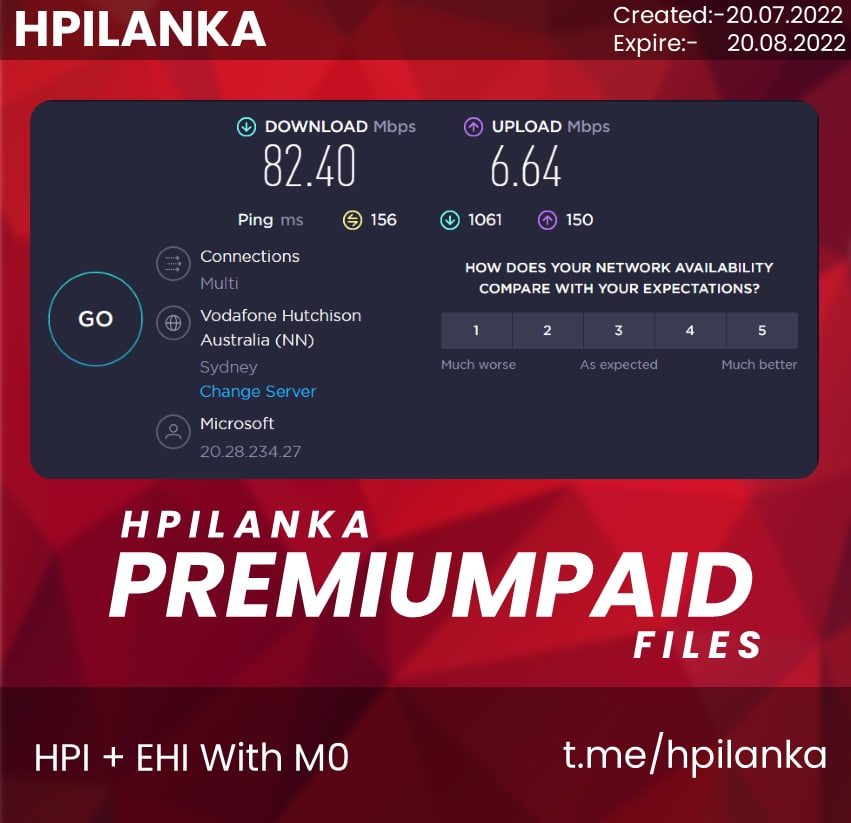
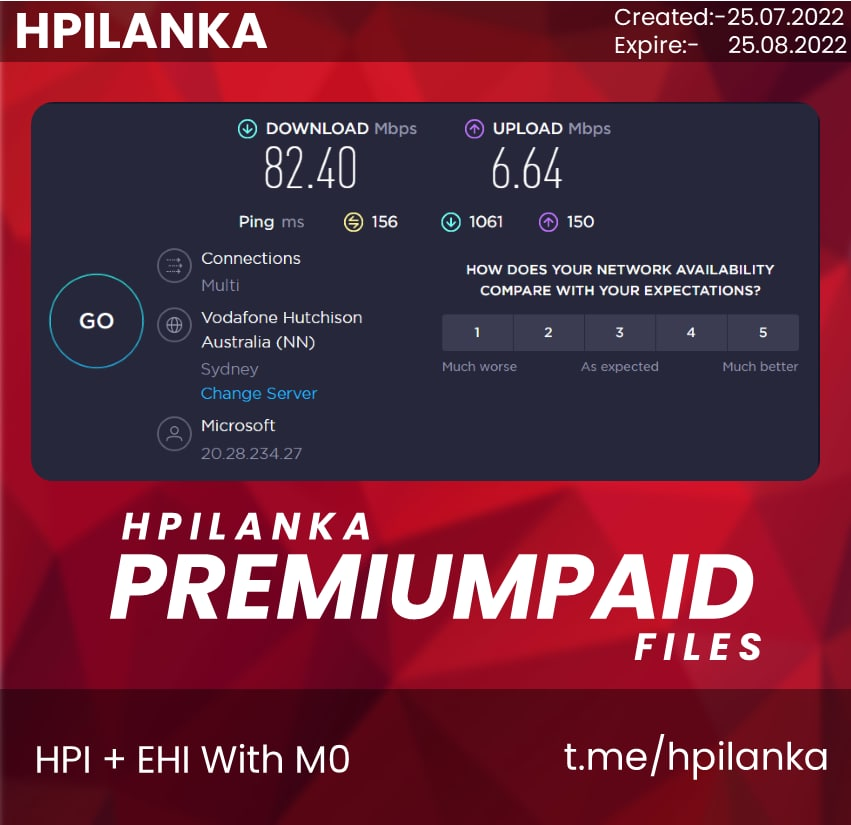
update_220725

diff --git a/hpifiles.html b/hpifiles.html
@@ -69,17 +69,17 @@
                 <p class="card-text">
                   <b>Categorie :-</b> Http prxoy injector HPI
                   <br>
-                  <b>Created date :-</b> 20.07.2022
+                  <b>Created date :-</b> 25.07.2022
                   <br>
-                  <b>Expire date :-</b> 20.08.2022
+                  <b>Expire date :-</b> 25.08.2022
                   <br>
-                  <b>Sever location :-</b> SG 🇸🇬
+                  <b>Sever location :-</b> Hong Kong 🇭🇰
                   <br>
-                  <b>VPS :-</b> Linode
+                  <b>VPS :-</b> Azure
                 </p>
                   <div class="btn-group" role="group" aria-label="Basic mixed styles example">
-                <a href="https://t.me/c/1774995932/1229" target="blank" class="btn btn-dark btn-sm"><i class="fa-brands fa-telegram"></i> View on telegram</a>
-                <a href="Files/🌀 Zoom 🌀.hpi" class="btn btn-success btn-sm"><i class="fa-solid fa-download"></i> Download</a>
+                <a href="https://t.me/c/1774995932/1382" target="blank" class="btn btn-dark btn-sm"><i class="fa-brands fa-telegram"></i> View on telegram</a>
+                <a href="Files/🎬 Zoom 🎬.hpi" class="btn btn-success btn-sm"><i class="fa-solid fa-download"></i> Download</a>
                 </div>
               </div>
             </div>
@@ -92,17 +92,17 @@
                 <p class="card-text">
                   <b>Categorie :-</b> Http prxoy injector HPI
                   <br>
-                  <b>Created date :-</b> 20.07.2022
+                  <b>Created date :-</b> 25.07.2022
                   <br>
-                  <b>Expire date :-</b> 20.08.2022
+                  <b>Expire date :-</b> 25.08.2022
                   <br>
-                  <b>Sever location :-</b> SG 🇸🇬
+                  <b>Sever location :-</b> Hong Kong 🇭🇰
                   <br>
-                  <b>VPS :-</b> Linode
+                  <b>VPS :-</b> Azure
                 </p>
                   <div class="btn-group" role="group" aria-label="Basic mixed styles example">
-                <a href="https://t.me/c/1774995932/1229" target="blank" class="btn btn-dark btn-sm"><i class="fa-brands fa-telegram"></i> View on telegram</a>
-                <a href="Files/🌀 Dialog Zoom 🌀.hpi" class="btn btn-success btn-sm"><i class="fa-solid fa-download"></i> Download</a>
+                <a href="https://t.me/c/1774995932/1382" target="blank" class="btn btn-dark btn-sm"><i class="fa-brands fa-telegram"></i> View on telegram</a>
+                <a href="Files/🎬 Dialog Zoom 🎬.hpi" class="btn btn-success btn-sm"><i class="fa-solid fa-download"></i> Download</a>
                 </div>
               </div>
             </div>
@@ -115,17 +115,17 @@
                     <p class="card-text">
                       <b>Categorie :-</b> Http prxoy injector HPI
                       <br>
-                      <b>Created date :-</b> 20.07.2022
+                      <b>Created date :-</b> 25.07.2022
                       <br>
-                      <b>Expire date :-</b> 20.08.2022
+                      <b>Expire date :-</b> 25.08.2022
                       <br>
-                      <b>Sever location :-</b> SG 🇸🇬
+                      <b>Sever location :-</b> Hong Kong 🇭🇰
                       <br>
-                      <b>VPS :-</b> Linode
+                      <b>VPS :-</b> Azure
                     </p>
                       <div class="btn-group" role="group" aria-label="Basic mixed styles example">
-                    <a href="https://t.me/c/1774995932/1229" target="blank" class="btn btn-dark btn-sm"><i class="fa-brands fa-telegram"></i> View on telegram</a>
-                    <a href="Files/🌀 WhatsApp 🌀.hpi" class="btn btn-success btn-sm"><i class="fa-solid fa-download"></i> Download</a>
+                    <a href="https://t.me/c/1774995932/1382" target="blank" class="btn btn-dark btn-sm"><i class="fa-brands fa-telegram"></i> View on telegram</a>
+                    <a href="Files/🎬 WhatsApp 🎬.hpi" class="btn btn-success btn-sm"><i class="fa-solid fa-download"></i> Download</a>
                     </div>
                   </div>
                 </div>
@@ -138,17 +138,17 @@
                     <p class="card-text">
                       <b>Categorie :-</b> Http prxoy injector HPI
                       <br>
-                      <b>Created date :-</b> 20.07.2022
+                      <b>Created date :-</b> 25.07.2022
                       <br>
-                      <b>Expire date :-</b> 20.08.2022
+                      <b>Expire date :-</b> 25.08.2022
                       <br>
-                      <b>Sever location :-</b> SG 🇸🇬
+                      <b>Sever location :-</b> Hong Kong 🇭🇰
                       <br>
-                      <b>VPS :-</b> Linode
+                      <b>VPS :-</b> Azure
                     </p>
                       <div class="btn-group" role="group" data-bs-target="#afterdownload" aria-label="Basic mixed styles example">
-                    <a href="https://t.me/c/1774995932/1229" target="blank" class="btn btn-dark btn-sm"><i class="fa-brands fa-telegram"></i> View on telegram</a>
-                    <a href="Files/🌀 YouTube 🌀.hpi" class="btn btn-success btn-sm"><i class="fa-solid fa-download"></i> Download</a>
+                    <a href="https://t.me/c/1774995932/1382" target="blank" class="btn btn-dark btn-sm"><i class="fa-brands fa-telegram"></i> View on telegram</a>
+                    <a href="Files/🎬 YouTube 🎬.hpi" class="btn btn-success btn-sm"><i class="fa-solid fa-download"></i> Download</a>
                     </div>
                   </div>
                 </div>
@@ -161,17 +161,17 @@
                     <p class="card-text">
                       <b>Categorie :-</b> Http prxoy injector HPI
                       <br>
-                      <b>Created date :-</b> 20.07.2022
+                      <b>Created date :-</b> 25.07.2022
                       <br>
-                      <b>Expire date :-</b> 20.08.2022
+                      <b>Expire date :-</b> 25.08.2022
                       <br>
-                      <b>Sever location :-</b> SG 🇸🇬
+                      <b>Sever location :-</b> Hong Kong 🇭🇰
                       <br>
-                      <b>VPS :-</b> Linode
+                      <b>VPS :-</b> Azure
                     </p>
                       <div class="btn-group" role="group" aria-label="Basic mixed styles example">
-                    <a href="https://t.me/c/1774995932/1229" target="blank" class="btn btn-dark btn-sm"><i class="fa-brands fa-telegram"></i> View on telegram</a>
-                    <a href="Files/🌀 Facebook 🌀.hpi" class="btn btn-success btn-sm">Download</a>
+                    <a href="https://t.me/c/1774995932/1382" target="blank" class="btn btn-dark btn-sm"><i class="fa-brands fa-telegram"></i> View on telegram</a>
+                    <a href="Files/🎬 Facebook 🎬.hpi" class="btn btn-success btn-sm">Download</a>
                     </div>
                   </div>
                 </div>
@@ -184,17 +184,17 @@
                     <p class="card-text">
                       <b>Categorie :-</b> Http prxoy injector HPI
                       <br>
-                      <b>Created date :-</b> 20.07.2022
+                      <b>Created date :-</b> 25.07.2022
                       <br>
-                      <b>Expire date :-</b> 20.08.2022
+                      <b>Expire date :-</b> 25.08.2022
                       <br>
-                      <b>Sever location :-</b> SG 🇸🇬
+                      <b>Sever location :-</b> Hong Kong 🇭🇰
                       <br>
-                      <b>VPS :-</b> Linode
+                      <b>VPS :-</b> Azure
                     </p>
                       <div class="btn-group" role="group" aria-label="Basic mixed styles example">
-                    <a href="https://t.me/c/1774995932/1229" target="blank" class="btn btn-dark btn-sm"><i class="fa-brands fa-telegram"></i> View on telegram</a>
-                    <a href="Files/🌀 Twitter 🌀.hpi" class="btn btn-success btn-sm"><i class="fa-solid fa-download"></i> Download</a>
+                    <a href="https://t.me/c/1774995932/1382" target="blank" class="btn btn-dark btn-sm"><i class="fa-brands fa-telegram"></i> View on telegram</a>
+                    <a href="Files/🎬 Twitter 🎬.hpi" class="btn btn-success btn-sm"><i class="fa-solid fa-download"></i> Download</a>
                     </div>
                   </div>
                 </div>
@@ -207,17 +207,17 @@
                     <p class="card-text">
                       <b>Categorie :-</b> Http prxoy injector HPI
                       <br>
-                      <b>Created date :-</b> 20.07.2022
+                      <b>Created date :-</b> 25.07.2022
                       <br>
-                      <b>Expire date :-</b> 20.08.2022
+                      <b>Expire date :-</b> 25.08.2022
                       <br>
-                      <b>Sever location :-</b> SG 🇸🇬
+                      <b>Sever location :-</b> Hong Kong 🇭🇰
                       <br>
-                      <b>VPS :-</b> Linode
+                      <b>VPS :-</b> Azure
                     </p>
                       <div class="btn-group" role="group" aria-label="Basic mixed styles example">
-                    <a href="https://t.me/c/1774995932/1229 target="blank" class="btn btn-dark btn-sm"><i class="fa-brands fa-telegram"></i> View on telegram</a>
-                    <a href="Files/🌀 Mobitel 0 🌀.hpi" class="btn btn-success btn-sm"><i class="fa-solid fa-download"></i> Download</a>
+                    <a href="https://t.me/c/1774995932/1382" target="blank" class="btn btn-dark btn-sm"><i class="fa-brands fa-telegram"></i> View on telegram</a>
+                    <a href="Files/🎬 Mobitel 0 🎬.hpi" class="btn btn-success btn-sm"><i class="fa-solid fa-download"></i> Download</a>
                     </div>
                   </div>
                 </div>
@@ -230,17 +230,17 @@
                     <p class="card-text">
                       <b>Categorie :-</b> Http prxoy injector HPI
                       <br>
-                      <b>Created date :-</b> 20.07.2022
+                      <b>Created date :-</b> 25.07.2022
                       <br>
-                      <b>Expire date :-</b> 20.08.2022
+                      <b>Expire date :-</b> 25.08.2022
                       <br>
-                      <b>Sever location :-</b> SG 🇸🇬
+                      <b>Sever location :-</b> Hong Kong 🇭🇰
                       <br>
-                      <b>VPS :-</b> Linode
+                      <b>VPS :-</b> Azure
                     </p>
                       <div class="btn-group" role="group" aria-label="Basic mixed styles example">
-                    <a href="https://t.me/c/1774995932/1229 " target="blank" class="btn btn-dark btn-sm"><i class="fa-brands fa-telegram"></i> View on telegram</a>
-                    <a href="Files/🌀 Without Host (VPN) 🌀.hpi" class="btn btn-success btn-sm"><i class="fa-solid fa-download"></i> Download</a>
+                    <a href="https://t.me/c/1774995932/1382 " target="blank" class="btn btn-dark btn-sm"><i class="fa-brands fa-telegram"></i> View on telegram</a>
+                    <a href="Files/🎬 Without Host (VPN) 🎬.hpi" class="btn btn-success btn-sm"><i class="fa-solid fa-download"></i> Download</a>
                     </div>
                   </div>
                 </div>

diff --git a/ehifiles.html b/ehifiles.html
@@ -67,17 +67,17 @@
                 <p class="card-text">
                   <b>Categorie :-</b> Http injector (Andriod) EHI
                   <br>
-                  <b>Created date :-</b> 20.07.2022
+                  <b>Created date :-</b> 25.07.2022
                   <br>
-                  <b>Expire date :-</b> 20.08.2022
+                  <b>Expire date :-</b> 25.08.2022
                   <br>
-                  <b>Sever location :-</b> SG 🇸🇬
+                  <b>Sever location :-</b> Hong Kong 🇭🇰
                   <br>
-                  <b>VPS :-</b> Linode
+                  <b>VPS :-</b> Azure
                 </p>
                   <div class="btn-group" role="group" aria-label="Basic mixed styles example">
-                <a href="https://t.me/c/1774995932/1212" target="blank" class="btn btn-dark btn-sm"><i class="fa-brands fa-telegram"></i> View on telegram</a>
-                <a href="EhiFiles/🌀 Zoom 🌀.ehi" class="btn btn-success btn-sm"><i class="fa-solid fa-download"></i> Download</a>
+                <a href="https://t.me/c/1774995932/1388" target="blank" class="btn btn-dark btn-sm"><i class="fa-brands fa-telegram"></i> View on telegram</a>
+                <a href="EhiFiles/🎬 Zoom 🎬.ehi" class="btn btn-success btn-sm"><i class="fa-solid fa-download"></i> Download</a>
                 </div>
               </div>
             </div>
@@ -90,17 +90,17 @@
                 <p class="card-text">
                   <b>Categorie :-</b> Http injector (Andriod) EHI
                   <br>
-                  <b>Created date :-</b> 20.07.2022
+                  <b>Created date :-</b> 25.07.2022
                   <br>
-                  <b>Expire date :-</b> 20.08.2022
+                  <b>Expire date :-</b> 25.08.2022
                   <br>
-                  <b>Sever location :-</b> SG 🇸🇬
+                  <b>Sever location :-</b> Hong Kong 🇭🇰
                   <br>
-                  <b>VPS :-</b> Linode
+                  <b>VPS :-</b> Azure
                 </p>
                   <div class="btn-group" role="group" aria-label="Basic mixed styles example">
-                <a href="https://t.me/c/1774995932/1212" target="blank" class="btn btn-dark btn-sm"><i class="fa-brands fa-telegram"></i> View on telegram</a>
-                <a href="EhiFiles/🌀 Dialog Zoom 🌀.ehi" class="btn btn-success btn-sm"><i class="fa-solid fa-download"></i> Download</a>
+                <a href="https://t.me/c/1774995932/1388" target="blank" class="btn btn-dark btn-sm"><i class="fa-brands fa-telegram"></i> View on telegram</a>
+                <a href="EhiFiles/🎬 Dialog Zoom 🎬.ehi" class="btn btn-success btn-sm"><i class="fa-solid fa-download"></i> Download</a>
                 </div>
               </div>
             </div>
@@ -113,17 +113,17 @@
                     <p class="card-text">
                       <b>Categorie :-</b> Http injector (Andriod) EHI
                       <br>
-                      <b>Created date :-</b> 20.07.2022
+                      <b>Created date :-</b> 25.07.2022
                       <br>
-                      <b>Expire date :-</b> 20.08.2022
+                      <b>Expire date :-</b> 25.08.2022
                       <br>
-                      <b>Sever location :-</b> SG 🇸🇬
+                      <b>Sever location :-</b> Hong Kong 🇭🇰
                       <br>
-                      <b>VPS :-</b> Linode
+                      <b>VPS :-</b> Azure
                     </p>
                       <div class="btn-group" role="group" aria-label="Basic mixed styles example">
-                    <a href="https://t.me/c/1774995932/1212" target="blank" class="btn btn-dark btn-sm"><i class="fa-brands fa-telegram"></i> View on telegram</a>
-                    <a href="EhiFiles/🌀 Whatsapp 🌀.ehi" class="btn btn-success btn-sm"><i class="fa-solid fa-download"></i> Download</a>
+                    <a href="https://t.me/c/1774995932/1388" target="blank" class="btn btn-dark btn-sm"><i class="fa-brands fa-telegram"></i> View on telegram</a>
+                    <a href="EhiFiles/🎬 Whatsapp 🎬.ehi" class="btn btn-success btn-sm"><i class="fa-solid fa-download"></i> Download</a>
                     </div>
                   </div>
                 </div>
@@ -136,17 +136,17 @@
                     <p class="card-text">
                       <b>Categorie :-</b> Http injector (Andriod) EHI
                       <br>
-                      <b>Created date :-</b> 20.07.2022
+                      <b>Created date :-</b> 25.07.2022
                       <br>
-                      <b>Expire date :-</b> 20.08.2022
+                      <b>Expire date :-</b> 25.08.2022
                       <br>
-                      <b>Sever location :-</b> SG 🇸🇬
+                      <b>Sever location :-</b> Hong Kong 🇭🇰
                       <br>
-                      <b>VPS :-</b> Linode
+                      <b>VPS :-</b> Azure
                     </p>
                       <div class="btn-group" role="group" data-bs-target="#afterdownload" aria-label="Basic mixed styles example">
-                    <a href="https://t.me/c/1774995932/1212" target="blank" class="btn btn-dark btn-sm"><i class="fa-brands fa-telegram"></i> View on telegram</a>
-                    <a href="EhiFiles/🌀 YouTube 🌀.ehi" class="btn btn-success btn-sm"><i class="fa-solid fa-download"></i> Download</a>
+                    <a href="https://t.me/c/1774995932/1388" target="blank" class="btn btn-dark btn-sm"><i class="fa-brands fa-telegram"></i> View on telegram</a>
+                    <a href="EhiFiles/🎬 YouTube 🎬.ehi" class="btn btn-success btn-sm"><i class="fa-solid fa-download"></i> Download</a>
                     </div>
                   </div>
                 </div>
@@ -159,17 +159,17 @@
                     <p class="card-text">
                       <b>Categorie :-</b> Http injector (Andriod) EHI
                       <br>
-                      <b>Created date :-</b> 20.07.2022
+                      <b>Created date :-</b> 25.07.2022
                       <br>
-                      <b>Expire date :-</b> 20.08.2022
+                      <b>Expire date :-</b> 25.08.2022
                       <br>
-                      <b>Sever location :-</b> SG 🇸🇬
+                      <b>Sever location :-</b> Hong Kong 🇭🇰
                       <br>
-                      <b>VPS :-</b> Linode
+                      <b>VPS :-</b> Azure
                     </p>
                       <div class="btn-group" role="group" aria-label="Basic mixed styles example">
-                    <a href="https://t.me/c/1774995932/1212" target="blank" class="btn btn-dark btn-sm"><i class="fa-brands fa-telegram"></i> View on telegram</a>
-                    <a href="EhiFiles/🌀 Facebook🌀.ehi" class="btn btn-success btn-sm">Download</a>
+                    <a href="https://t.me/c/1774995932/1388" target="blank" class="btn btn-dark btn-sm"><i class="fa-brands fa-telegram"></i> View on telegram</a>
+                    <a href="EhiFiles/🎬 Facebook 🎬.ehi" class="btn btn-success btn-sm">Download</a>
                     </div>
                   </div>
                 </div>
@@ -182,17 +182,17 @@
                     <p class="card-text">
                       <b>Categorie :-</b> Http injector (Andriod) EHI
                       <br>
-                      <b>Created date :-</b> 20.07.2022
+                      <b>Created date :-</b> 25.07.2022
                       <br>
-                      <b>Expire date :-</b> 20.08.2022
+                      <b>Expire date :-</b> 25.08.2022
                       <br>
-                      <b>Sever location :-</b> SG 🇸🇬
+                      <b>Sever location :-</b> Hong Kong 🇭🇰
                       <br>
-                      <b>VPS :-</b> Linode
+                      <b>VPS :-</b> Azure
                     </p>
                       <div class="btn-group" role="group" aria-label="Basic mixed styles example">
-                    <a href="https://t.me/c/1774995932/1212" target="blank" class="btn btn-dark btn-sm"><i class="fa-brands fa-telegram"></i> View on telegram</a>
-                    <a href="EhiFiles/🌀 Twitter 🌀.ehi" class="btn btn-success btn-sm"><i class="fa-solid fa-download"></i> Download</a>
+                    <a href="https://t.me/c/1774995932/1388" target="blank" class="btn btn-dark btn-sm"><i class="fa-brands fa-telegram"></i> View on telegram</a>
+                    <a href="EhiFiles/🎬 Twitter 🎬.ehi" class="btn btn-success btn-sm"><i class="fa-solid fa-download"></i> Download</a>
                     </div>
                   </div>
                 </div>
@@ -205,17 +205,17 @@
                     <p class="card-text">
                       <b>Categorie :-</b> Http injector (Andriod) EHI
                       <br>
-                      <b>Created date :-</b> 20.07.2022
+                      <b>Created date :-</b> 25.07.2022
                       <br>
-                      <b>Expire date :-</b> 20.08.2022
+                      <b>Expire date :-</b> 25.08.2022
                       <br>
-                      <b>Sever location :-</b> SG 🇸🇬
+                      <b>Sever location :-</b> Hong Kong 🇭🇰
                       <br>
-                      <b>VPS :-</b> Linode
+                      <b>VPS :-</b> Azure
                     </p>
                       <div class="btn-group" role="group" aria-label="Basic mixed styles example">
-                    <a href="https://t.me/c/1774995932/1212" target="blank" class="btn btn-dark btn-sm"><i class="fa-brands fa-telegram"></i> View on telegram</a>
-                    <a href="EhiFiles/🌀 Mobitel 0 🌀.ehi" class="btn btn-success btn-sm"><i class="fa-solid fa-download"></i> Download</a>
+                    <a href="https://t.me/c/1774995932/1388" target="blank" class="btn btn-dark btn-sm"><i class="fa-brands fa-telegram"></i> View on telegram</a>
+                    <a href="EhiFiles/🎬 Mobitel 0 🎬.ehi" class="btn btn-success btn-sm"><i class="fa-solid fa-download"></i> Download</a>
                     </div>
                   </div>
                 </div>

diff --git a/banner.html b/banner.html
@@ -6,12 +6,12 @@
 </font></h4>
 <h4><font color= #FFFFFF >🎭🎃NO HACKING🎀✨
 </font></h4>
-<h4><font color= #FFFFFF >➢HPILANKA TEAM🎭
+<h4><font color= #FFFFFF >➢HPILANKA NETWORK SOLUTIONS
 </font></h4>
 <center><h1 style="background-color:rgb(251, 0, 0); color: white;">JOIN WITH US</h1>
-<h2>t.me/hpilanka</h2>
-<h2>t.me/hpilankachat</h2>
-<h2>hpilanka.ga</h2>
-<h2>greatstudios.org.lk</h2>
+<h2><font color= #FFFFFF >t.me/hpilanka</font></h2>
+<h2><font color= #FFFFFF >t.me/hpilankachat</font></h2>
+<h2><font color= #FFFFFF >hpilanka.ga</font></h2>
+<h2><font color= #FFFFFF >greatstudios.org.lk</font></h2>
 <center><h1 style="background-color:rgb(251, 0, 0); color: white;">THANK YOU!</h1>
 </center>
